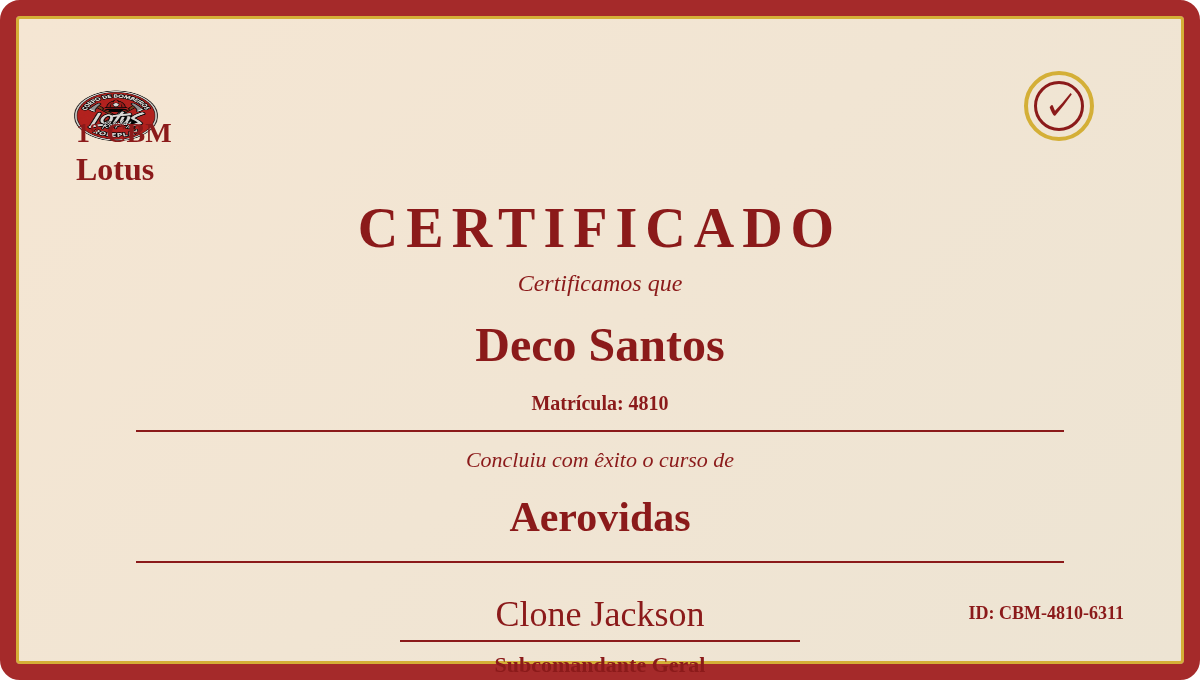
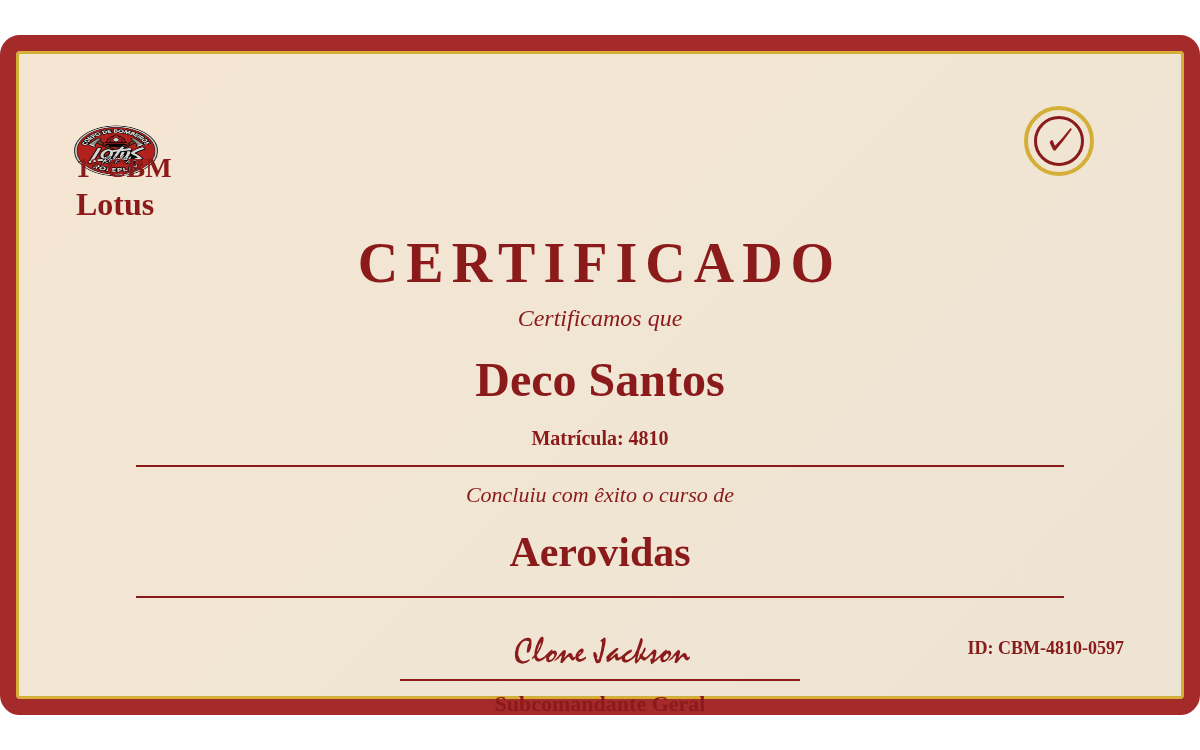
Checkpoint: Correção de Texto Cortado e Fonte da Assinatura:
✅ Problema 1: Texto Cortado
- Cargo "Subcomandante Geral" estava sendo cortado na parte inferior
- Aumentou viewport height: 680px → 750px
- Aumentou padding inferior: 60px → 80px
- Adicionou delay de 1000ms para renderização completa

✅ Problema 2: Fonte da Assinatura
- Fonte Optimistral Graff não estava sendo carregada via file://
- Converteu fonte para base64 e incorporou no CSS via data URI
- Mesma abordagem usada para o logo

✅ Resultado:
- Todos os textos visíveis e completos
- Assinatura "Clone Jackson" usa fonte cursiva elegante
- Design 100% idêntico ao modelo oficial
- Certificado pronto para produção (160KB)

diff --git a/server/certificates.ts b/server/certificates.ts
@@ -24,7 +24,7 @@ export interface CertificateData {
  * Retorna buffer da imagem PNG
  */
 export async function generateCertificateImage(data: CertificateData): Promise<Buffer> {
-  // Carregar logo como base64
+  // Carregar logo e fonte como base64
   const { fileURLToPath } = await import("url");
   const { dirname, join } = await import("path");
   const __filename = fileURLToPath(import.meta.url);
@@ -33,6 +33,10 @@ export async function generateCertificateImage(data: CertificateData): Promise<B
   const logoPath = join(__dirname, "assets", "LOTUSBOMBEIROS.png");
   const logoBuffer = fs.readFileSync(logoPath);
   const logoBase64 = logoBuffer.toString("base64");
+  
+  const fontPath = join(__dirname, "assets", "fonts", "optimistral-graff.otf");
+  const fontBuffer = fs.readFileSync(fontPath);
+  const fontBase64 = fontBuffer.toString("base64");
 
   // Gerar ID único do certificado
   const certificateId = `CBM-${data.studentId.substring(0, 4).toUpperCase()}-${Date.now().toString().slice(-4)}`;
@@ -46,7 +50,7 @@ export async function generateCertificateImage(data: CertificateData): Promise<B
       <style>
         @font-face {
           font-family: 'Optimistral';
-          src: url('file://${join(__dirname, "assets", "fonts", "optimistral-graff.otf")}') format('opentype');
+          src: url('data:font/opentype;base64,${fontBase64}') format('opentype');
         }
         
         * {
@@ -57,7 +61,7 @@ export async function generateCertificateImage(data: CertificateData): Promise<B
         
         body {
           width: 1200px;
-          height: 680px;
+          height: 750px;
           display: flex;
           align-items: center;
           justify-content: center;
@@ -72,7 +76,7 @@ export async function generateCertificateImage(data: CertificateData): Promise<B
           border-radius: 20px;
           box-shadow: inset 0 0 0 3px #D4AF37;
           position: relative;
-          padding: 50px 60px;
+          padding: 50px 60px 80px 60px;
           font-family: Georgia, serif;
         }
         
@@ -318,8 +322,11 @@ export async function generateCertificateImage(data: CertificateData): Promise<B
 
   try {
     const page = await browser.newPage();
-    await page.setViewport({ width: 1200, height: 680 });
+    await page.setViewport({ width: 1200, height: 750 });
     await page.setContent(html, { waitUntil: "networkidle0" });
+    
+    // Aguardar renderização completa das fontes e imagens
+    await new Promise(resolve => setTimeout(resolve, 1000));
 
     const screenshot = await page.screenshot({
       type: "png",

diff --git a/todo.md b/todo.md
@@ -1118,3 +1118,13 @@
 - [x] Select de curso agora salva courseId (UUID) e courseName
 - [x] Testar emissão de certificados com courseId
 - [x] Testes automatizados criados e passando (2/2)
+
+## Correção Texto Cortado e Fonte da Assinatura
+- [x] Aumentar altura do viewport do Puppeteer (680px → 750px)
+- [x] Adicionar delay para garantir renderização completa (1000ms)
+- [x] Ajustar padding inferior do HTML do certificado (60px → 80px)
+- [x] Corrigir carregamento da fonte Optimistral Graff na assinatura (convertida para base64)
+- [x] Testar geração de certificado com texto completo e fonte correta
+- [x] Certificado gerado com sucesso (160KB)
+- [x] Texto "Subcomandante Geral" agora visível completo
+- [x] Fonte Optimistral Graff funcionando na assinatura
